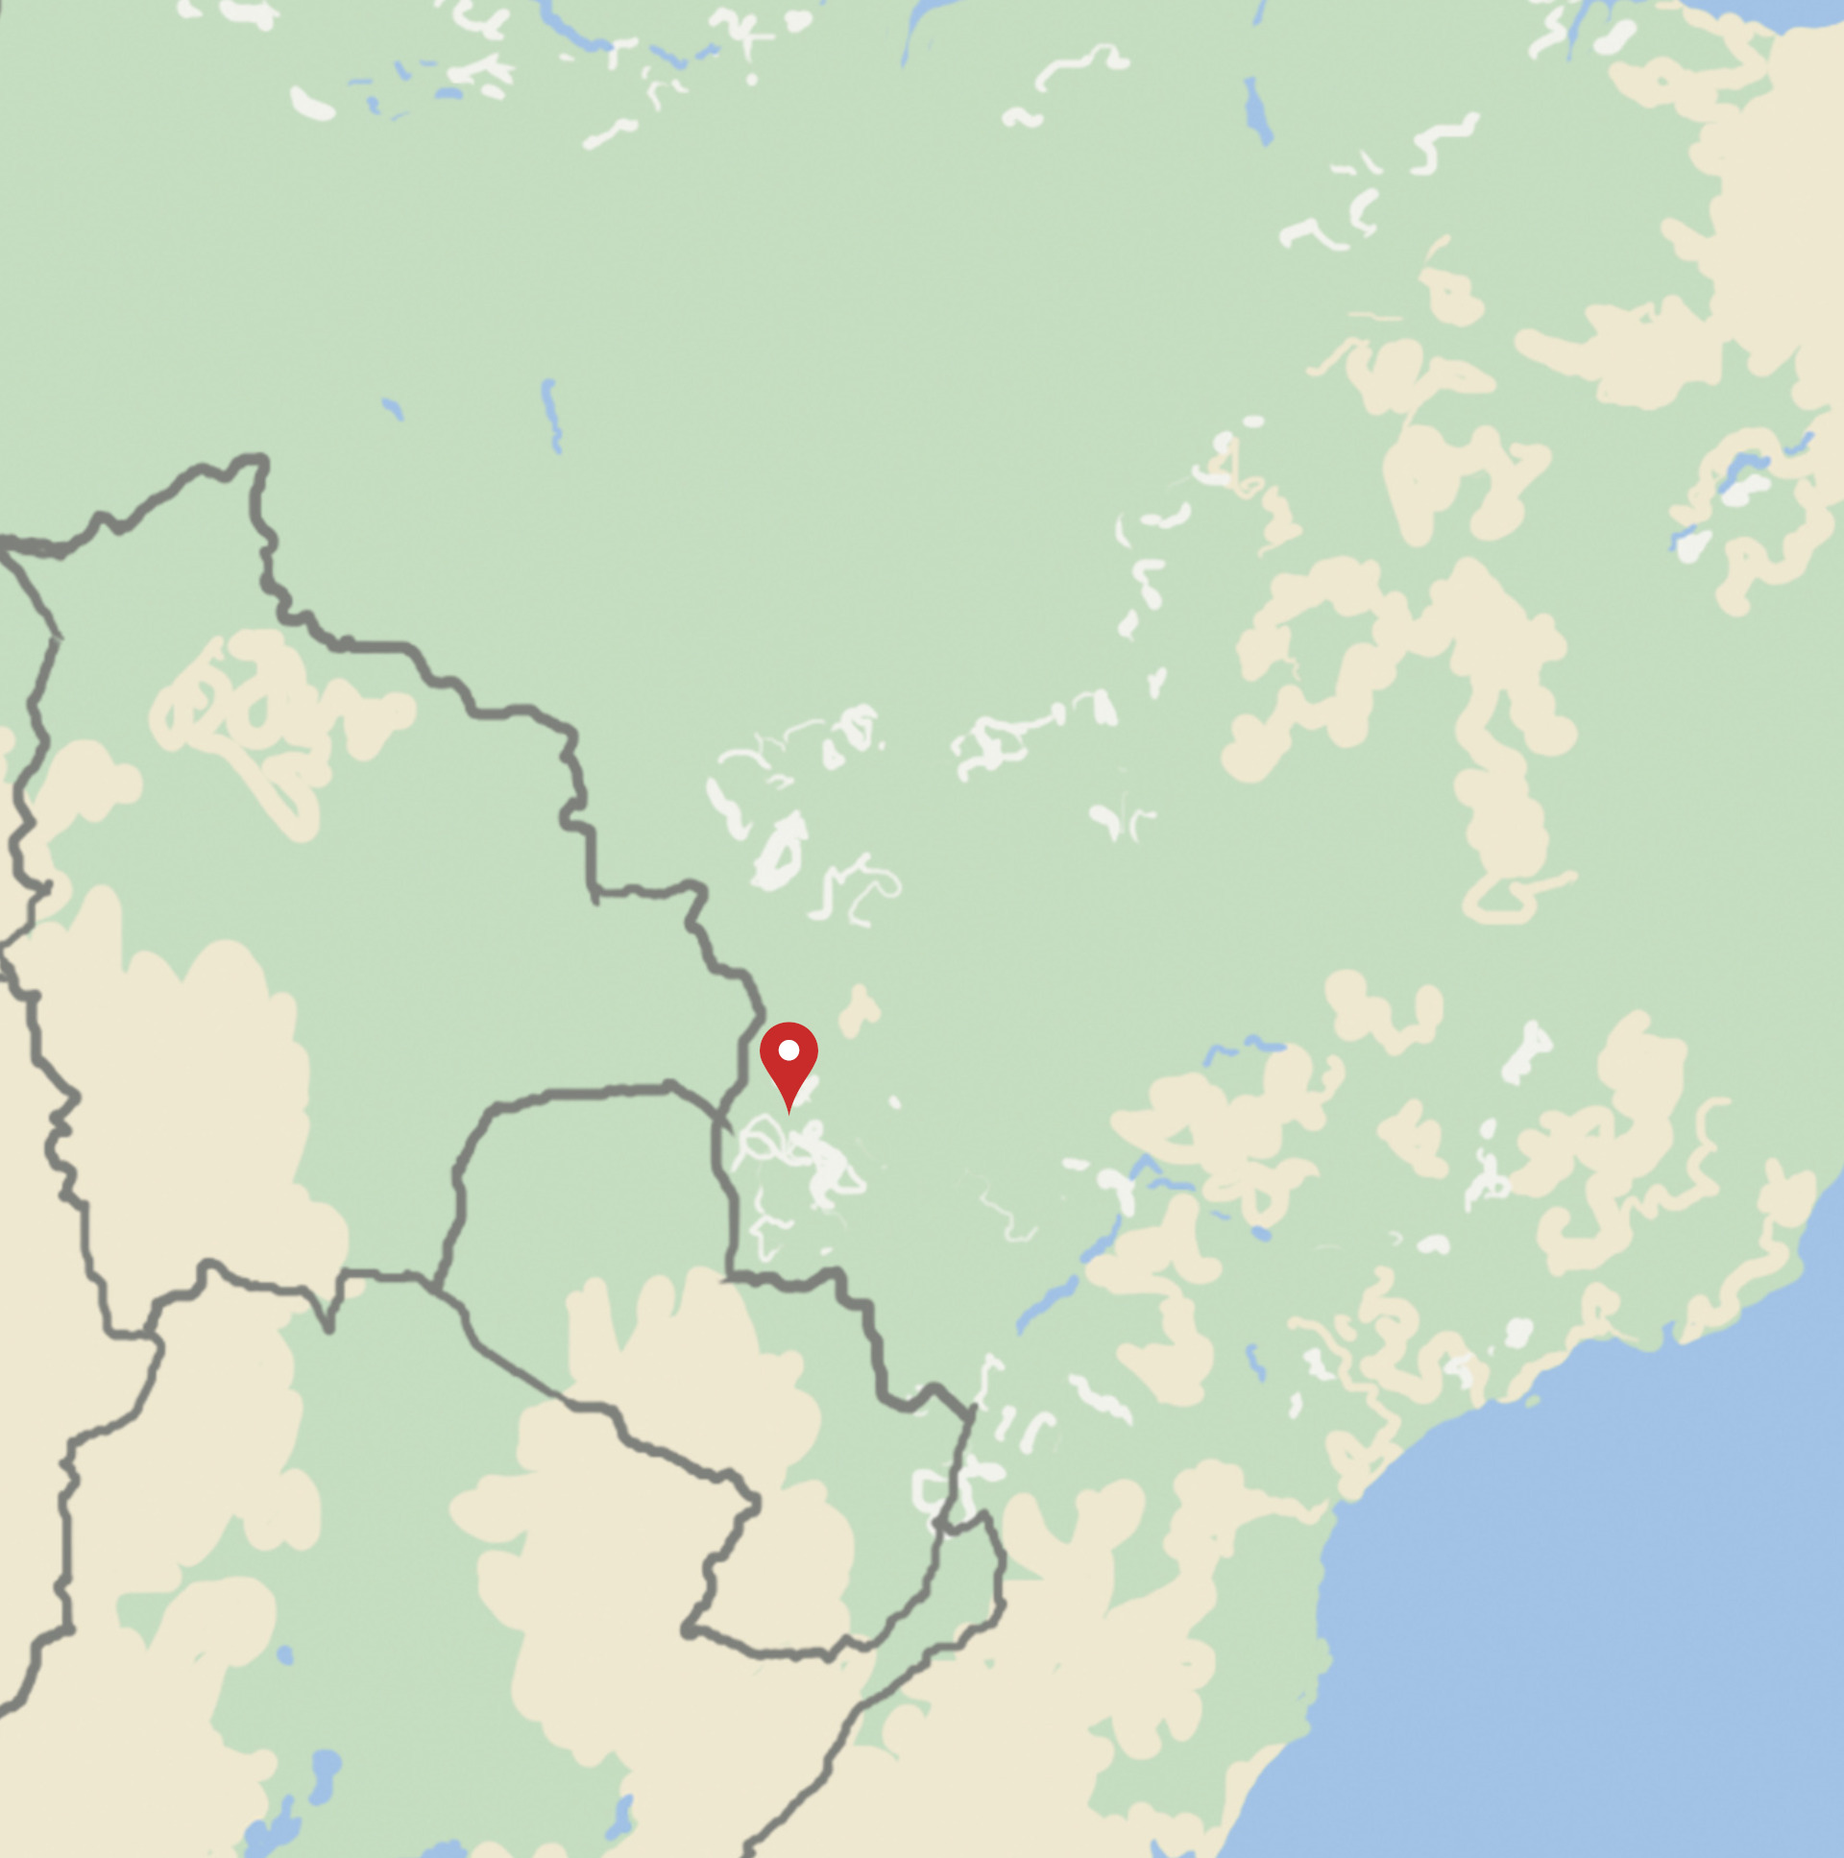
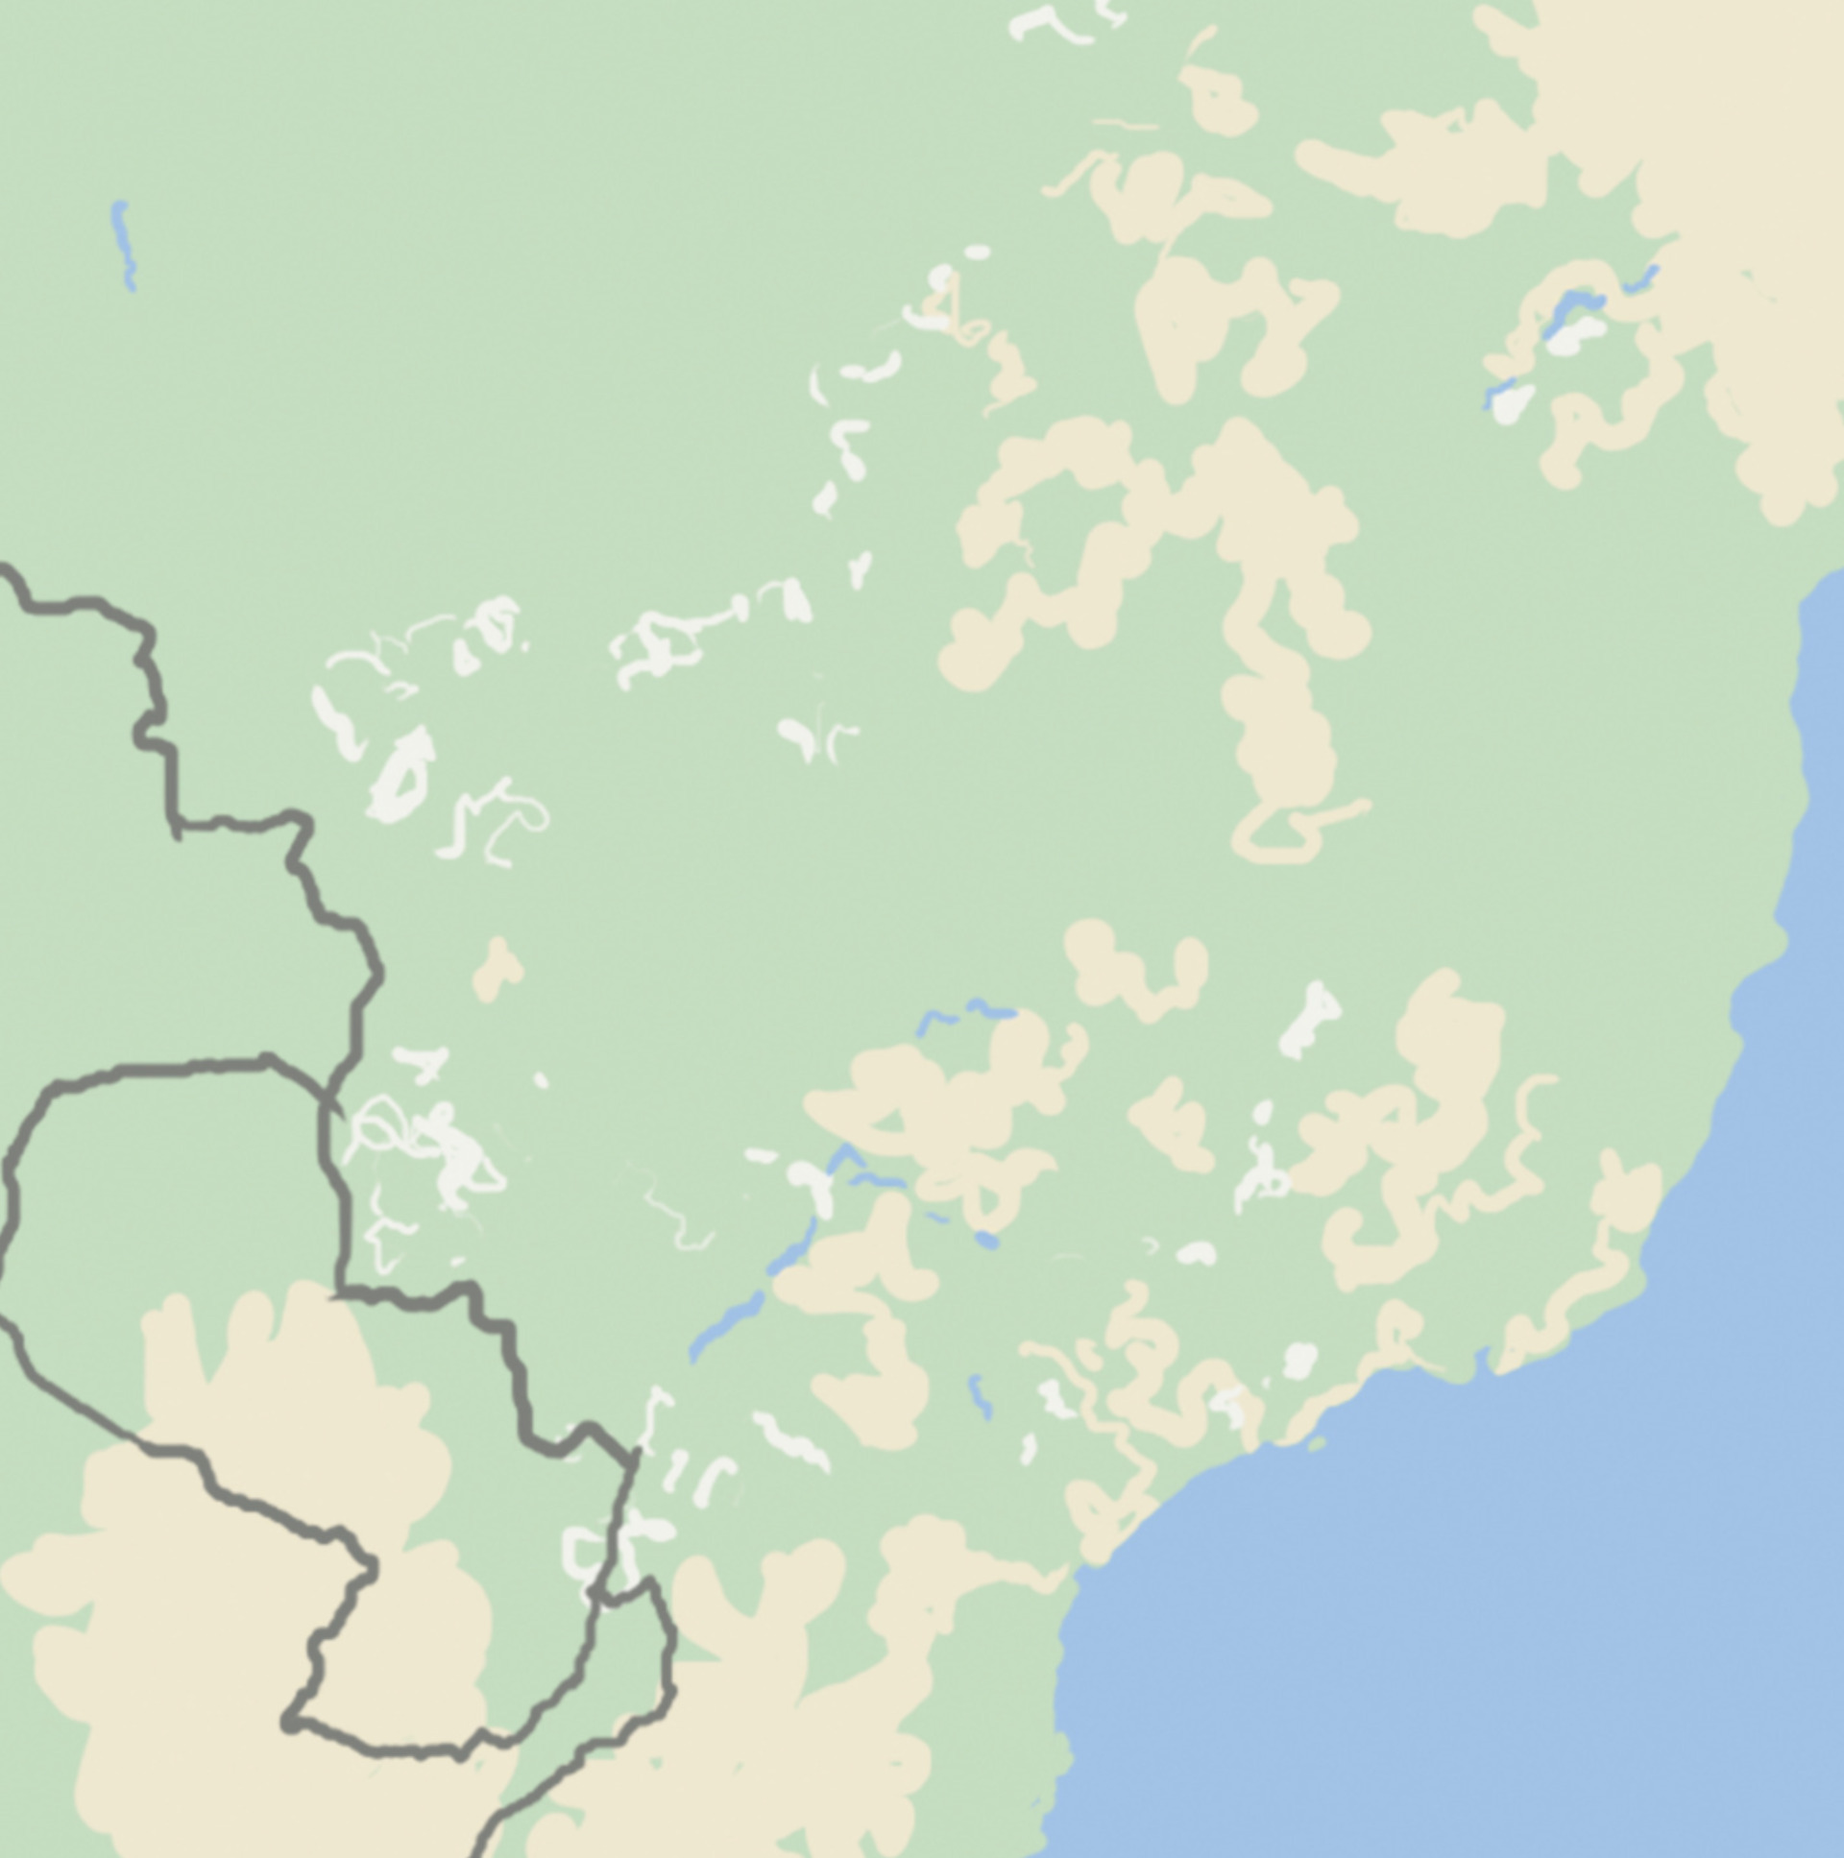
update

diff --git a/src/fc.js b/src/fc.js
@@ -26,7 +26,7 @@ var dialogos = [
     "um telecentro",
     "era daí que estavam tentando mudar as coisas",
     "consegue me mostrar a frente desse lugar?",
-    "valeu grandão, [pessoa]",
+    "valeu grandão, ",
     "é o que eu procurava",
     "se é que voltei ao tempo certo...",
     "de que ano você fala?",
@@ -156,13 +156,13 @@ window.onload = function(){
     $("#chatWin").append(div);
 
 
-    $(".chat__inner").append(frase(dialogos[0], 21, "NPC"));
-    $(".chat__inner").append(frase(dialogos[1], 52, "NPC"));
-    $(".chat__inner").append(frase(dialogos[2], 96, "NPC"));
-    $(".chat__inner").append(frase(dialogos[3], 115, "NPC"));
-    $(".chat__inner").append(frase(dialogos[4], 185, "NPC"));
-    $(".chat__inner").append(frase(dialogos[5], 205, "NPC"));
-    $(".chat__inner").append(frase(dialogos[6], 215, "NPC"));
+    $(".chat__inner").append(frase(dialogos[0], 1, "NPC"));
+    $(".chat__inner").append(frase(dialogos[1], 20, "NPC"));
+    $(".chat__inner").append(frase(dialogos[2], 40, "NPC"));
+    $(".chat__inner").append(frase(dialogos[3], 60, "NPC"));
+    $(".chat__inner").append(frase(dialogos[4], 85, "NPC"));
+    $(".chat__inner").append(frase(dialogos[5], 105, "NPC"));
+    $(".chat__inner").append(frase(dialogos[6], 115, "NPC"));
     
     $('#inputText').prop( "disabled", false );
     $('#enviar').prop( "disabled", false );
@@ -180,7 +180,7 @@ window.onload = function(){
         $(".chat__inner").append(frase(dialogos[8], 35, "NPC"));
 
 
-        $(".chat__inner").append(frase("<div id=\"RQuem\">Quem é você?</div> <br><div id=\"RQuet\">Que tipo de ajuda?</div>", 35, "player"));
+        $(".chat__inner").append(frase("<div id=\"RQuem\">Quem é você?</div> <br><div id=\"RQuet\">Que tipo de ajuda?</div>", 45, "player"));
         
         var origQuem = $( "#RQuem" ).html();
         $( "#RQuem" ).hover(
@@ -216,48 +216,70 @@ window.onload = function(){
             $(".chat__inner").append(frase(dialogos[15], 125, "NPC"));
             $(".chat__inner").append(frase("<div id=\"PinBut\">[ Link ]</div>", 145, "NPC"));
             $( "#PinBut" ).click(function () { 
-              $(".img1").css("background-image", "url('assets/phaser3/map1.jpg')");
+              $("#map1").show();
               $("#pin").css("left", "1165px");
-              $("#pin").css("top", "1610px");
+              $("#pin").css("top", "810px");
+
+              $("#pin").show();
               tela2() });
            
         }
     } );
 
-    /*function tela2(){
-      $(".chat__inner").append(frase(dialogos[16], 5, "NPC"));
-      $(".chat__inner").append(frase(dialogos[17], 25, "NPC"));
-      $(".chat__inner").append(frase(dialogos[18], 45, "NPC"));
-      $(".chat__inner").append(frase(dialogos[19], 55, "NPC"));
-      $(".chat__inner").append(frase(dialogos[20], 85, "NPC"));
-      $(".chat__inner").append(frase(dialogos[21], 105, "NPC"));
-      $(".chat__inner").append(frase(dialogos[22], 125, "NPC"));
-      $(".chat__inner").append(frase(dialogos[23], 145, "NPC"));
-      $(".chat__inner").append(frase("<div id=\"ImagemCli\">[ IMAGEM ]</div>", 145, "NPC"));
-      $( "#ImagemCli" ).click(function () { console.log("tela3"); tela3() });
 
-  };*/
 
     function tela2(){
-            $("#pin").click(function () { console.log('hahha')});
+
             $(".chat__inner").append(frase(dialogos[16], 5, "NPC"));
             $(".chat__inner").append(frase(dialogos[17], 25, "NPC"));
+            $("#pin").click(function () { 
+              $("#map1").hide();
+              $("#map2").show();
+              $("#pin").css("top", "610px");
+              
+              tela2_1(); 
+            });
 
-           /* $(".chat__inner").append(frase(dialogos[18], 45, "NPC"));
-            $(".chat__inner").append(frase(dialogos[19], 55, "NPC"));
-            $(".chat__inner").append(frase(dialogos[20], 85, "NPC"));
-            $(".chat__inner").append(frase(dialogos[21], 105, "NPC"));
-            $(".chat__inner").append(frase(dialogos[22], 125, "NPC"));
-            $(".chat__inner").append(frase(dialogos[23], 145, "NPC"));*/
-            $(".chat__inner").append(frase("<div id=\"ImagemCli\">[ IMAGEM ]</div>", 145, "NPC"));
-            $( "#ImagemCli" ).click(function () { console.log("tela3"); tela3() });
+    };
+
+    function tela2_1(){
+      console.log("tela2_1"); 
+      $(".chat__inner").append(frase(dialogos[18], 5, "NPC"));
+      $(".chat__inner").append(frase(dialogos[19], 25, "NPC"));
+      $( "#pin" ).unbind("click");
+      $( "#pin" ).click(function () { 
+       
+        $("#map2").hide();
+        $("#vila").show();
+        $("#pin").css("top", "510px");
+        $("#pin").css("left", "565px");
+        tela2_2() 
+      });
+
+    };
+
+    function tela2_2(){
+      console.log("tela2_2"); 
+      $(".chat__inner").append(frase(dialogos[20], 5, "NPC"));
+      $(".chat__inner").append(frase(dialogos[21], 25, "NPC"));
+      $(".chat__inner").append(frase(dialogos[22], 45, "NPC"));
+      $(".chat__inner").append(frase(dialogos[23], 65, "NPC"));
+      $(".chat__inner").append(frase("<div id=\"ImagemCli\">[ IMAGEM ]</div>", 85, "NPC"));
+      $( "#pin" ).unbind("click");
+      $( "#pin" ).click(function () { 
+        $("#vila").hide();
+        $("#pin").hide();
+        $("#telecentro").show();
+        console.log("tela3"); tela3();
+      });
 
     };
 
     function tela3(){
+        $( "#pin" ).unbind("click");
         $(".chat__inner").append(frase("* Print *", 5, "NPC"));
-        $(".chat__inner").append(frase("* Figurinha *", 25, "NPC"));
-        $(".chat__inner").append(frase(dialogos[24], 45, "NPC"));
+        $(".chat__inner").append(frase("👍👍👍", 25, "NPC"));
+        $(".chat__inner").append(frase(dialogos[24]+ nome, 45, "NPC"));
         $(".chat__inner").append(frase(dialogos[25], 55, "NPC"));
         $(".chat__inner").append(frase(dialogos[26], 85, "NPC"));
         $(".chat__inner").append(frase(dialogos[27], 105, "NPC"));
@@ -301,17 +323,7 @@ window.onload = function(){
 };
     function tela3_1(){
         $(".chat__inner").append(frase(dialogos[28], 5, "NPC"));
-        $(".chat__inner").append(frase("<div id=\"RMeme\">[ meme atual ]</div> <br><div id=\"RNaoP\">Não posso</div>", 10, "player"));
-        var origMeme = $( "#RMeme" ).html();
-        
-        $( "#RMeme" ).hover(
-            
-            function() {
-              $( this ).html( "> " + $( this ).html() );
-            }, function() {
-              $( this ).html(origMeme);
-            }
-        );
+        $(".chat__inner").append(frase("<div id=\"RMeme\"><img src=\"assets/phaser3/meme.jpeg\"/></div> <br><div id=\"RNaoP\">Não posso</div>", 10, "player"));
 
         var origNaoP = $( "#RNaoP" ).html();
         $( "#RNaoP" ).hover(
@@ -330,21 +342,46 @@ window.onload = function(){
 
     function tela3_2(){
         $(".chat__inner").append(frase(dialogos[29], 5, "NPC"));
-        $(".chat__inner").append(frase(dialogos[30], 15, "NPC"));
-        $(".chat__inner").append(frase(dialogos[31], 25, "NPC"));
-        $(".chat__inner").append(frase(dialogos[32], 35, "NPC"));
-        $(".chat__inner").append(frase(dialogos[33], 45, "NPC"));
-        $(".chat__inner").append(frase(dialogos[34], 55, "NPC"));
-        $(".chat__inner").append(frase(dialogos[35], 65, "NPC"));
-        $(".chat__inner").append(frase(dialogos[36], 75, "NPC"));
-        $(".chat__inner").append(frase(dialogos[37], 85, "NPC"));
-        $(".chat__inner").append(frase(dialogos[38], 95, "NPC"));
-        $(".chat__inner").append(frase(dialogos[39], 105, "NPC"));
-        $(".chat__inner").append(frase(dialogos[40], 115, "NPC"));
-        $(".chat__inner").append(frase(dialogos[41], 125, "NPC"));
- 
-        $(".chat__inner").append(frase("<div id=\"RFoiM\">😅 foi mal</div> <br><div id=\"RComoE\">😤 como eu ia saber??</div>", 135, "player"));
 
+        setTimeout(function() { 
+          $("#telecentro").hide();
+          $("#shared1").show();
+          $(".img1").css("background-image", "url()"); 
+        } 
+        , 25000 * textSpeed);
+
+        $(".chat__inner").append(frase(dialogos[30], 25, "NPC"));
+        $(".chat__inner").append(frase(dialogos[31], 85, "NPC"));
+        $(".chat__inner").append(frase(dialogos[32], 105, "NPC"));
+        $(".chat__inner").append(frase(dialogos[33], 125, "NPC"));
+        $(".chat__inner").append(frase(dialogos[34], 145, "NPC"));
+        $(".chat__inner").append(frase(dialogos[35], 165, "NPC"));
+
+        setTimeout(function() { 
+          $("#chat").hide();
+          $("#shared1").hide();
+          $("#blank").show();
+        } 
+        , 185000 * textSpeed);
+
+
+        setTimeout(function() { 
+          $(".chat__inner").html("")
+          $("#chat").show();
+          tela3_2_reset();
+        } 
+        , 205000 * textSpeed);
+    }
+    function tela3_2_reset(){    
+        $(".chat__inner").append(frase(dialogos[36], 5, "NPC"));
+        $(".chat__inner").append(frase(dialogos[37], 25, "NPC"));
+        $(".chat__inner").append(frase(dialogos[38], 45, "NPC"));
+        $(".chat__inner").append(frase(dialogos[39], 65, "NPC"));
+        $(".chat__inner").append(frase(dialogos[40], 85, "NPC"));
+        $(".chat__inner").append(frase(dialogos[41], 105, "NPC"));
+ 
+        $(".chat__inner").append(frase("<div id=\"RFoiM\">😅 foi mal</div> <br><div id=\"RComoE\">😤 como eu ia saber??</div>", 125, "player"));
+        
         var origMeme = $( "#RFoiM" ).html();
         $( "#RFoiM" ).hover(
             
@@ -370,12 +407,12 @@ window.onload = function(){
     }
     function tela3_3(){
         $(".chat__inner").append(frase(dialogos[41], 5, "NPC"));
-        $(".chat__inner").append(frase(dialogos[42], 15, "NPC"));
-        $(".chat__inner").append(frase(dialogos[43], 25, "NPC"));
-        $(".chat__inner").append(frase(dialogos[44], 35, "NPC"));
-        $(".chat__inner").append(frase(dialogos[45], 5, "NPC"));
+        $(".chat__inner").append(frase(dialogos[42], 25, "NPC"));
+        $(".chat__inner").append(frase(dialogos[43], 45, "NPC"));
+        $(".chat__inner").append(frase(dialogos[44], 65, "NPC"));
+        $(".chat__inner").append(frase(dialogos[45], 85, "NPC"));
  
-        $(".chat__inner").append(frase("<div id=\"RComoPosso\">como posso te ajudar?</div> <br><div id=\"RMeExpli\">me explica logo o que tá acontecendo!</div>", 40, "player"));
+        $(".chat__inner").append(frase("<div id=\"RComoPosso\">como posso te ajudar?</div> <br><div id=\"RMeExpli\">me explica logo o que tá acontecendo!</div>", 105, "player"));
 
         var origComoPosso = $( "#RComoPosso" ).html();
         $( "#RComoPosso" ).hover(
@@ -403,7 +440,7 @@ window.onload = function(){
     }
     function tela4(){
         
-        $(".chat__inner").append(frase(dialogos[46], 15, "NPC"));
+        $(".chat__inner").append(frase(dialogos[46], 5, "NPC"));
         $(".chat__inner").append(frase(dialogos[47], 25, "NPC"));
         $(".chat__inner").append(frase(dialogos[48], 35, "NPC"));
     };

diff --git a/src/index.html b/src/index.html
@@ -16,8 +16,12 @@
 <body>
    
 <div class="bg-image img1">
-   <img id="pin" src="assets/phaser3/pin.png"/>
+  
+   <img id="telecentro" class="imagem" src="assets/phaser3/02.webp"/>
+   <img id="vila" class="imagem" src="assets/phaser3/01.webp"/>
+
    <img class="banner" src="assets/phaser3/notificacao.png"/>
+
    <img id="slideshow" width="50%" src=""/>
    <div id="chat" draggable="true">
       <div id="chatheader">C:\</div>
@@ -29,7 +33,17 @@
          </div> 
       </div>
    </div>
+
+   <img id="map3" class="imagem" src="assets/phaser3/map3.jpg"/>
+   <img id="map2" class="imagem" src="assets/phaser3/map2.jpg"/>
+   <img id="map1" class="imagem" src="assets/phaser3/map1.jpg"/>
+   <img id="blank" class="imagem" src="assets/phaser3/blank.webp"/>
+   <img id="shared1" class="imagem" width="800" src="assets/phaser3/shared1.png"/>
+   <img id="pin" class="imagem" src="assets/phaser3/pin.png"/>
+
+
 </div>
+
 
 
 <script>
@@ -38,6 +52,16 @@
       $( "#chat" ).draggable();
       $( "#chat" ).hide();
       $('.banner').hide();
+      $("#pin").hide();
+      $("#vila").hide();
+      $("#map1").hide();
+      $("#map2").hide();
+      $("#map3").hide();
+      $("#blank").hide();
+      $("#shared1").hide();
+      $("#shared1").css("top", "310px");
+      $("#shared1").css("left", "565px");
+      $("#telecentro").hide();
     } );
 
    

diff --git a/src/style.css b/src/style.css
@@ -26,6 +26,7 @@
 width: 470px;
 cursor: move;
 position: fixed;
+z-index: 2;
 }
 .chat {
   display: flex;
@@ -35,9 +36,9 @@ position: fixed;
   flex-direction: column-reverse;
   padding: .75rem;
   overflow: hidden;
-  border: 1px #9bc dashed;
+  border: 1px #9bc;
   font: 32px "ModernDOS9x16";
-  color: #313131;
+  color: #00d201;
   position: relative; }
   .chat__inner {
     display: flex;
@@ -73,14 +74,14 @@ position: fixed;
   overflow: hidden;
   animation: message .15s ease-out 0s forwards;
   animation-delay: var(--timeline);
-  --bgcolor: #d8d8d8;
+  --bgcolor: #111;
   --radius: 12px 12px 12px 0; }
   .chat__message_B {
     flex-direction: row-reverse;
     text-align: right;
     align-self: flex-end;
     transform-origin: 100% 100%;
-    --bgcolor: #d2ecd4;
+    --bgcolor: #010;
     --radius: 12px 12px 0 12px; }
   /*.chat__message::before {
     content: "";
@@ -170,10 +171,13 @@ code {
 }
 
 #pin {
-  display: block;
-  /*background-color: #00d201;*/
-  padding: 60px;
-  width: 165px;
-  position: relative;
+z-index: 10;
 
+}
+
+.imagem { 
+  position: fixed;
+  display:block;
+  margin: 0 auto;
+  z-index: 0;
 }
